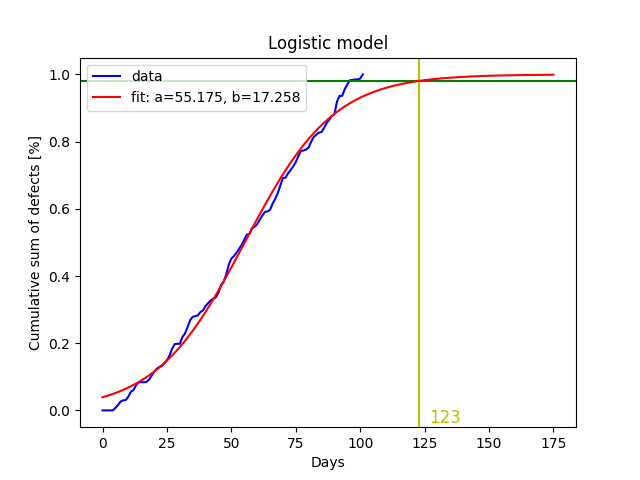
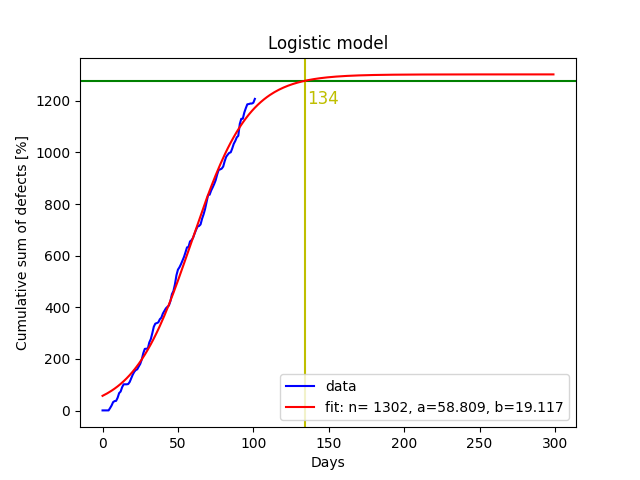
fix with full days

diff --git a/models.py b/models.py
@@ -2,21 +2,17 @@ import matplotlib.pyplot as plt
 from scipy.optimize import curve_fit, fsolve
 import numpy as np
 
-def normalizeData(data):
-    return (data - np.min(data)) / (np.max(data) - np.min(data))
+def rayleigh_cdf(t, n, a):
+    return n * (1 - np.exp(-(pow(t, 2) / (2 * pow(a, 2)))))
 
-def rayleigh_cdf(t, a):
-    return 1 - np.exp(-(pow(t, 2) / (2 * pow(a, 2))))
+def weibull_cdf(t, n, a, b):
+    return n * (1 - np.exp(-(pow(t / a, b))))
 
-def weibull_cdf(t, a, b):
-    return 1 - np.exp(-(pow(t / a, b)))
+def logistic_cdf(t, n, a, b):
+    return n * (1 / (1 + np.exp(-(t - a) / b)))
 
-def logistic_cdf(t, a, b):
-    return 1 / (1 + np.exp(-(t - a) / b))
-
-def lyu_cdf(t, a, b): # def lyu_cdf(t, n, a, b):
-    # return n * (1 - np.exp(-a * t)) / (1 + b * np.exp(-a * t))
-    return 1 * (1 - np.exp(-a * t)) / (1 + b * np.exp(-a * t))
+def lyu_cdf(t, n, a, b):
+    return n * (1 - np.exp(-a * t)) / (1 + b * np.exp(-a * t))
 
 defects = [""]
 
@@ -61,21 +57,19 @@ plt.bar(xsw, weekly_defects)
 plt.savefig('figures/weekly_defects.png')
 plt.close()
 
-y_data = normalizeData(total_defects)
-
 xdata = np.asarray(xs)
-ydata = np.asarray(y_data)
+ydata = np.asarray(total_defects)
 
-fit_x = np.arange(176)
+fit_x = np.arange(300)
 
-popt, pcov = curve_fit(rayleigh_cdf, xdata, ydata, bounds=[(0.001),(np.inf)])
+popt, pcov = curve_fit(rayleigh_cdf, xdata, ydata, bounds=[(0.001, 0.001), (np.inf, np.inf)])
 fit_y = rayleigh_cdf(fit_x, *popt)
-day_of_x_defects = fit_x[fit_y.searchsorted(0.98, 'left')]
+day_of_x_defects = fit_x[fit_y.searchsorted(0.98*popt[0], 'left')]
 plt.plot(xdata, ydata, 'b-', label='data')
-plt.axhline(y=0.98, color='g', linestyle='-')
+plt.axhline(y=0.98*popt[0], color='g', linestyle='-')
 plt.axvline(x=day_of_x_defects, color='y', linestyle='-')
-plt.text(day_of_x_defects + 10, -0.05, f'{day_of_x_defects}', color='y', fontsize=12, ha='center', va='bottom')
-plt.plot(fit_x, fit_y, 'r-', label='fit: a=%5.3f' % tuple(popt))
+plt.text(day_of_x_defects + 12, popt[0]-130, f'{day_of_x_defects}', color='y', fontsize=12, ha='center', va='bottom')
+plt.plot(fit_x, fit_y, 'r-', label='fit: n=%5.0f, a=%5.3f' % (round(popt[0]), popt[1]))
 plt.title('Rayleigh model')
 plt.xlabel('Days')
 plt.ylabel('Cumulative sum of defects [%]')
@@ -83,14 +77,14 @@ plt.legend()
 plt.savefig('figures/fits/rayleigh.png')
 plt.close()
 
-popt, pcov = curve_fit(weibull_cdf, xdata, ydata, bounds=[(0.001, 0.001),(np.inf, np.inf)])
+popt, pcov = curve_fit(weibull_cdf, xdata, ydata, bounds=[(0.001, 0.001, 0.001),(np.inf, np.inf, np.inf)])
 fit_y = weibull_cdf(fit_x, *popt)
-day_of_x_defects = fit_x[fit_y.searchsorted(0.98, 'left')]
+day_of_x_defects = fit_x[fit_y.searchsorted(0.98*popt[0], 'left')]
 plt.plot(xdata, ydata, 'b-', label='data')
-plt.axhline(y=0.98, color='g', linestyle='-')
+plt.axhline(y=0.98*popt[0], color='g', linestyle='-')
 plt.axvline(x=day_of_x_defects, color='y', linestyle='-')
-plt.text(day_of_x_defects + 10, -0.05, f'{day_of_x_defects}', color='y', fontsize=12, ha='center', va='bottom')
-plt.plot(fit_x, fit_y, 'r-', label='fit: a=%5.3f, b=%5.3f' % tuple(popt))
+plt.text(day_of_x_defects + 12, popt[0]-170, f'{day_of_x_defects}', color='y', fontsize=12, ha='center', va='bottom')
+plt.plot(fit_x, fit_y, 'r-', label='fit: n=%5.0f, a=%5.3f, b=%5.3f' % (round(popt[0]), popt[1], popt[2]))
 plt.title('Weibull model')
 plt.xlabel('Days')
 plt.ylabel('Cumulative sum of defects [%]')
@@ -98,14 +92,14 @@ plt.legend()
 plt.savefig('figures/fits/weibull.png')
 plt.close()
 
-popt, pcov = curve_fit(logistic_cdf, xdata, ydata, bounds=[(-np.inf, 0.001),(np.inf, np.inf)])
+popt, pcov = curve_fit(logistic_cdf, xdata, ydata, bounds=[(0.001, -np.inf, 0.001),(np.inf, np.inf, np.inf)])
 fit_y = logistic_cdf(fit_x, *popt)
-day_of_x_defects = fit_x[fit_y.searchsorted(0.98, 'left')]
+day_of_x_defects = fit_x[fit_y.searchsorted(0.98*popt[0], 'left')]
 plt.plot(xdata, ydata, 'b-', label='data')
-plt.axhline(y=0.98, color='g', linestyle='-')
+plt.axhline(y=0.98*popt[0], color='g', linestyle='-')
 plt.axvline(x=day_of_x_defects, color='y', linestyle='-')
-plt.text(day_of_x_defects + 10, -0.05, f'{day_of_x_defects}', color='y', fontsize=12, ha='center', va='bottom')
-plt.plot(fit_x, fit_y, 'r-', label='fit: a=%5.3f, b=%5.3f' % tuple(popt))
+plt.text(day_of_x_defects + 12, popt[0]-130, f'{day_of_x_defects}', color='y', fontsize=12, ha='center', va='bottom')
+plt.plot(fit_x, fit_y, 'r-', label='fit: n=%5.0f, a=%5.3f, b=%5.3f' % (round(popt[0]), popt[1], popt[2]))
 plt.title('Logistic model')
 plt.xlabel('Days')
 plt.ylabel('Cumulative sum of defects [%]')
@@ -113,14 +107,14 @@ plt.legend()
 plt.savefig('figures/fits/logistic.png')
 plt.close()
 
-popt, pcov = curve_fit(lyu_cdf, xdata, ydata)
+popt, pcov = curve_fit(lyu_cdf, xdata, ydata, bounds=[(0.001, -np.inf, -np.inf),(np.inf, np.inf, np.inf)])
 fit_y = lyu_cdf(fit_x, *popt)
-day_of_x_defects = fit_x[fit_y.searchsorted(0.98, 'left')]
+day_of_x_defects = fit_x[fit_y.searchsorted(0.98*popt[0], 'left')]
 plt.plot(xdata, ydata, 'b-', label='data')
-plt.axhline(y=0.98, color='g', linestyle='-')
+plt.axhline(y=0.98*popt[0], color='g', linestyle='-')
 plt.axvline(x=day_of_x_defects, color='y', linestyle='-')
-plt.text(day_of_x_defects + 10, -0.05, f'{day_of_x_defects}', color='y', fontsize=12, ha='center', va='bottom')
-plt.plot(fit_x, fit_y, 'r-', label='fit: a=%5.3f, b=%5.3f' % tuple(popt))
+plt.text(day_of_x_defects + 12, popt[0]-150, f'{day_of_x_defects}', color='y', fontsize=12, ha='center', va='bottom')
+plt.plot(fit_x, fit_y, 'r-', label='fit: n=%5.0f, a=%5.3f, b=%5.3f' % (round(popt[0]), popt[1], popt[2]))
 plt.title('Lyu model')
 plt.xlabel('Days')
 plt.ylabel('Cumulative sum of defects [%]')
